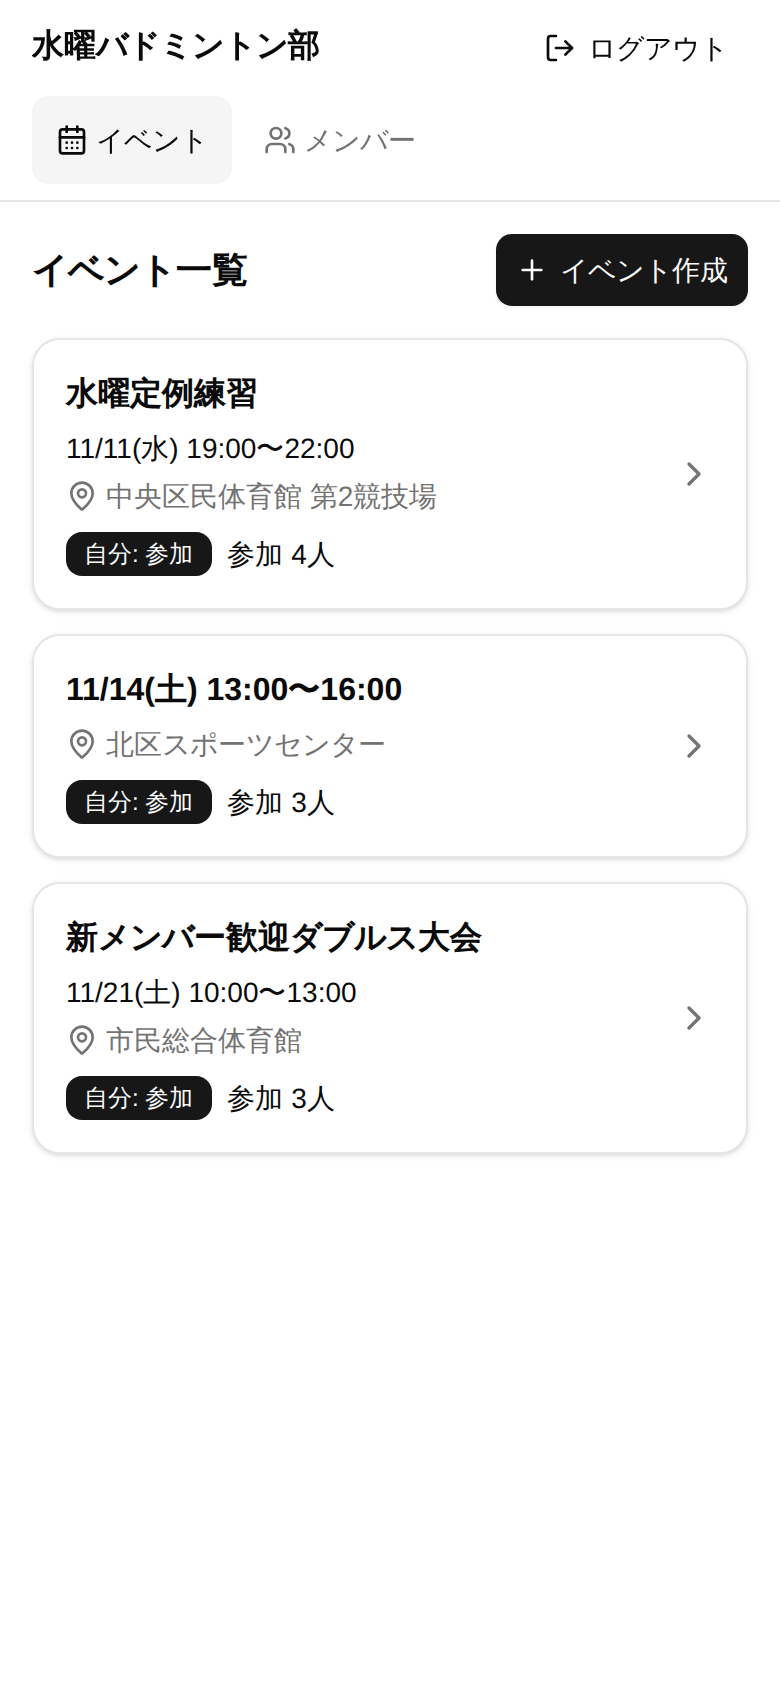
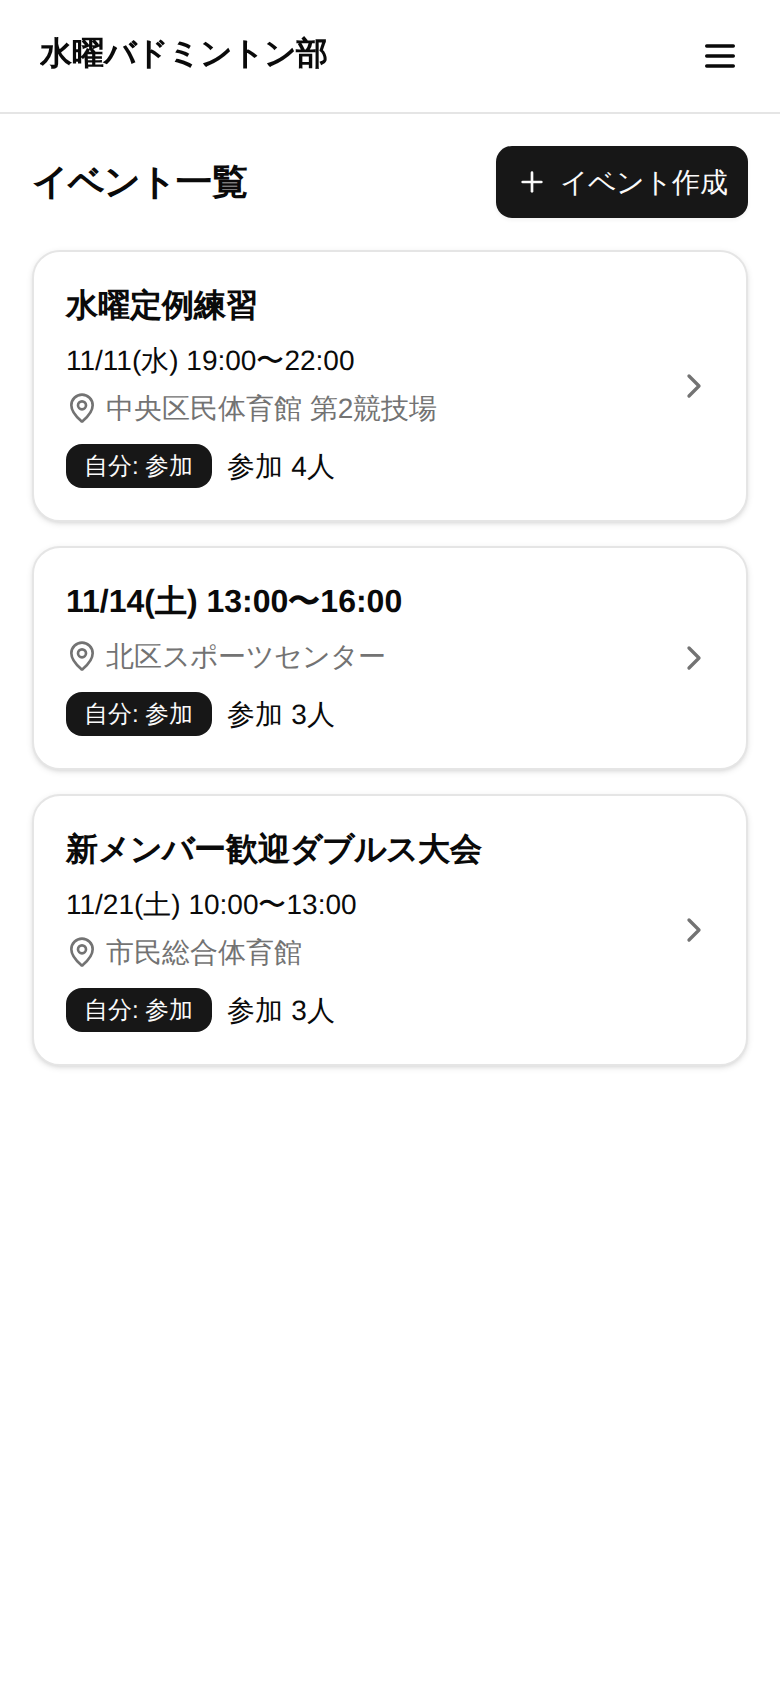
feat(web): ヘッダーのタブを廃止し、左端の ‹（親画面へ）と ≡ メニューにする（C39）
- ヘッダー: ‹（詳細・作成・メンバー一覧 → イベント一覧、編集 → イベント詳細。一覧には出さない）、Circle 名、≡
- メニュー: メンバー一覧（admin のみ）とログアウト。外側タップ・Escape・画面遷移で閉じる
- 各ページの「← イベント一覧」の行を削除
- テスト・E2E を更新、README のスクリーンショットを撮り直し

diff --git a/apps/web/src/components/layout/AppLayout.tsx b/apps/web/src/components/layout/AppLayout.tsx
@@ -1,43 +1,38 @@
-import { NavLink, Outlet } from 'react-router-dom';
-import { CalendarDays, Users } from 'lucide-react';
-import { LogoutButton } from '@/features/auth/LogoutButton';
+import { Link, Outlet, useLocation } from 'react-router-dom';
+import { ChevronLeft } from 'lucide-react';
 import { useMe } from '@/lib/auth';
-import { routes } from '@/lib/routes';
-import { cn } from '@/lib/utils';
+import { HeaderMenu } from './HeaderMenu';
+import { upTarget } from './upTarget';
 
 /**
- * ログイン後の画面の共通レイアウト（モバイルファースト: guardrails §12）。
+ * ログイン後の画面の共通レイアウト（モバイルファースト: guardrails §12、decisions C39）。
  * - 幅は max-w-md で中央寄せ。横スクロールしない
- * - ヘッダーに Circle 名、ナビ（イベント / メンバー[admin のみ]）、ログアウト
+ * - ヘッダー: 左端に「‹」（1 つ上の画面へ。イベント一覧には出さない）、Circle 名、右端にメニュー（≡）
+ * - 「‹」は履歴を戻るのではなく親画面へ移動する（外部リンクから直接開いてもアプリ内に留まる）
  */
 export function AppLayout() {
   const { data: me } = useMe();
-  const isAdmin = me?.member.role === 'admin';
-  const navClass = ({ isActive }: { isActive: boolean }) =>
-    cn(
-      'inline-flex h-11 items-center gap-1 rounded-md px-3 text-sm',
-      isActive ? 'bg-secondary font-medium' : 'text-muted-foreground',
-    );
+  const { pathname } = useLocation();
+  const up = upTarget(pathname);
 
   return (
     <div className="mx-auto flex min-h-dvh w-full max-w-md flex-col">
-      <header className="sticky top-0 z-10 border-b bg-background/95 px-4 pt-[env(safe-area-inset-top)] backdrop-blur">
-        <div className="flex h-12 items-center justify-between gap-2">
-          <span className="truncate font-semibold">{me?.circle.name}</span>
-          <LogoutButton />
-        </div>
-        <nav className="flex gap-1 pb-2">
-          <NavLink to={routes.events()} className={navClass}>
-            <CalendarDays className="size-4" />
-            イベント
-          </NavLink>
-          {isAdmin && (
-            <NavLink to={routes.members()} className={navClass}>
-              <Users className="size-4" />
-              メンバー
-            </NavLink>
+      <header className="sticky top-0 z-10 border-b bg-background/95 px-2 pt-[env(safe-area-inset-top)] backdrop-blur">
+        <div className="flex h-14 items-center gap-1">
+          {up ? (
+            <Link
+              to={up.to}
+              aria-label={up.label}
+              className="inline-flex size-11 shrink-0 items-center justify-center rounded-md hover:bg-accent"
+            >
+              <ChevronLeft className="size-6" />
+            </Link>
+          ) : (
+            <span className="w-2 shrink-0" />
           )}
-        </nav>
+          <span className="min-w-0 flex-1 truncate font-semibold">{me?.circle.name}</span>
+          <HeaderMenu isAdmin={me?.member.role === 'admin'} />
+        </div>
       </header>
       <main className="flex-1 px-4 py-4 pb-[calc(1rem+env(safe-area-inset-bottom))]">
         <Outlet />

diff --git a/apps/web/src/components/guards/guards.test.tsx b/apps/web/src/components/guards/guards.test.tsx
@@ -1,4 +1,4 @@
-import { screen } from '@testing-library/react';
+import { fireEvent, screen } from '@testing-library/react';
 import { describe, expect, it } from 'vitest';
 import { saveLastCircleLoginId } from '@/lib/lastCircle';
 import { makeMe, renderRoute } from '@/test/render';
@@ -29,15 +29,43 @@ describe('RequireAdmin', () => {
     expect(await screen.findByText('この画面を表示する権限がありません')).toBeInTheDocument();
   });
 
-  it('admin はメンバー一覧を表示でき、ナビにメンバーが出る', async () => {
+  it('admin はメンバー一覧を表示でき、メニューにメンバー一覧が出る（C39）', async () => {
     renderRoute('/members', { me: makeMe('admin') });
     expect(await screen.findByRole('heading', { name: 'メンバー一覧' })).toBeInTheDocument();
-    expect(screen.getByRole('link', { name: /メンバー/ })).toBeInTheDocument();
+    fireEvent.click(screen.getByRole('button', { name: 'メニュー' }));
+    expect(screen.getByRole('link', { name: 'メンバー一覧' })).toHaveAttribute('href', '/members');
   });
 
-  it('member のナビにはメンバーが出ない', async () => {
+  it('member のメニューにはメンバー一覧が出ず、ログアウトだけ（C39）', async () => {
     renderRoute('/events', { me: makeMe('member') });
     await screen.findByRole('heading', { name: 'イベント一覧' });
-    expect(screen.queryByRole('link', { name: /メンバー/ })).not.toBeInTheDocument();
+    fireEvent.click(screen.getByRole('button', { name: 'メニュー' }));
+    expect(screen.queryByRole('link', { name: 'メンバー一覧' })).not.toBeInTheDocument();
+    expect(screen.getByRole('button', { name: 'ログアウト' })).toBeInTheDocument();
+  });
+});
+
+describe('ヘッダー（decisions C39）', () => {
+  it('イベント一覧には「‹」を出さない', async () => {
+    renderRoute('/events', { me: makeMe('member') });
+    await screen.findByRole('heading', { name: 'イベント一覧' });
+    expect(screen.queryByRole('link', { name: 'イベント一覧' })).not.toBeInTheDocument();
+  });
+
+  it('メンバー一覧の「‹」はイベント一覧へ', async () => {
+    renderRoute('/members', { me: makeMe('admin') });
+    await screen.findByRole('heading', { name: 'メンバー一覧' });
+    expect(screen.getByRole('link', { name: 'イベント一覧' })).toHaveAttribute('href', '/events');
+  });
+
+  it('メニューは Escape で閉じる', async () => {
+    renderRoute('/events', { me: makeMe('member') });
+    await screen.findByRole('heading', { name: 'イベント一覧' });
+    const menu = screen.getByRole('button', { name: 'メニュー' });
+    fireEvent.click(menu);
+    expect(menu).toHaveAttribute('aria-expanded', 'true');
+    fireEvent.keyDown(document, { key: 'Escape' });
+    expect(menu).toHaveAttribute('aria-expanded', 'false');
+    expect(screen.queryByRole('button', { name: 'ログアウト' })).not.toBeInTheDocument();
   });
 });

diff --git a/apps/web/src/components/layout/HeaderMenu.tsx b/apps/web/src/components/layout/HeaderMenu.tsx
@@ -1,0 +1,72 @@
+import { useEffect, useId, useRef, useState } from 'react';
+import { Link, useLocation } from 'react-router-dom';
+import { Menu, Users } from 'lucide-react';
+import { Button } from '@/components/ui/button';
+import { LogoutButton } from '@/features/auth/LogoutButton';
+import { routes } from '@/lib/routes';
+
+/**
+ * ヘッダー右端のメニュー（≡）。中身は「メンバー一覧」（admin のみ）と「ログアウト」（decisions C39）。
+ * 外側のタップ・Escape・画面遷移で閉じる。
+ */
+export function HeaderMenu({ isAdmin }: { isAdmin: boolean }) {
+  const [open, setOpen] = useState(false);
+  const panelId = useId();
+  const rootRef = useRef<HTMLDivElement>(null);
+  const { pathname } = useLocation();
+
+  // 画面遷移したら閉じる
+  const [lastPath, setLastPath] = useState(pathname);
+  if (lastPath !== pathname) {
+    setLastPath(pathname);
+    setOpen(false);
+  }
+
+  useEffect(() => {
+    if (!open) return;
+    const onPointerDown = (e: PointerEvent) => {
+      if (!rootRef.current?.contains(e.target as Node)) setOpen(false);
+    };
+    const onKeyDown = (e: KeyboardEvent) => {
+      if (e.key === 'Escape') setOpen(false);
+    };
+    document.addEventListener('pointerdown', onPointerDown);
+    document.addEventListener('keydown', onKeyDown);
+    return () => {
+      document.removeEventListener('pointerdown', onPointerDown);
+      document.removeEventListener('keydown', onKeyDown);
+    };
+  }, [open]);
+
+  return (
+    <div ref={rootRef} className="relative shrink-0">
+      <Button
+        variant="ghost"
+        size="icon"
+        aria-label="メニュー"
+        aria-expanded={open}
+        aria-controls={panelId}
+        onClick={() => setOpen((v) => !v)}
+      >
+        <Menu className="size-5" />
+      </Button>
+      {open && (
+        <div
+          id={panelId}
+          className="absolute right-0 top-full z-20 mt-1 flex w-48 flex-col gap-1 rounded-lg border bg-popover p-1 shadow-md"
+        >
+          {isAdmin && (
+            <Link
+              to={routes.members()}
+              className="inline-flex h-11 items-center gap-2 rounded-md px-3 text-sm hover:bg-accent"
+            >
+              <Users className="size-4" />
+              メンバー一覧
+            </Link>
+          )}
+          <LogoutButton />
+        </div>
+      )}
+    </div>
+  );
+}

diff --git a/apps/web/src/features/auth/LogoutButton.tsx b/apps/web/src/features/auth/LogoutButton.tsx
@@ -1,5 +1,5 @@
 /**
- * ログアウトボタン（AppLayout のヘッダーに配置済み）。
+ * ログアウトボタン（AppLayout のヘッダーメニューに配置: decisions C39）。
  * POST /api/auth/logout 成功後に useSetLoggedOut() で me を null にし、RequireAuth が /login/<最後の circleLoginId> へ送る。
  */
 import { LogOut } from 'lucide-react';
@@ -9,16 +9,21 @@ import { useLogout } from './api';
 export function LogoutButton() {
   const logout = useLogout();
   return (
-    <div className="flex shrink-0 items-center gap-2">
-      {logout.isError && (
-        <span role="alert" className="text-xs text-destructive">
-          ログアウトに失敗しました
-        </span>
-      )}
-      <Button variant="ghost" size="sm" className="h-11" onClick={() => logout.mutate()} disabled={logout.isPending}>
+    <div className="flex flex-col">
+      <Button
+        variant="ghost"
+        className="w-full justify-start px-3 font-normal"
+        onClick={() => logout.mutate()}
+        disabled={logout.isPending}
+      >
         <LogOut className="size-4" />
         ログアウト
       </Button>
+      {logout.isError && (
+        <span role="alert" className="px-3 pb-2 text-xs text-destructive">
+          ログアウトに失敗しました
+        </span>
+      )}
     </div>
   );
 }

diff --git a/apps/web/src/features/auth/auth.test.tsx b/apps/web/src/features/auth/auth.test.tsx
@@ -94,7 +94,8 @@ describe('LogoutButton', () => {
     const fetchMock = stubFetch((url) => (url === '/api/auth/logout' ? new Response(null, { status: 204 }) : undefined));
     const { router, queryClient } = renderRoute('/events', { me: makeMe() });
 
-    fireEvent.click(await screen.findByRole('button', { name: 'ログアウト' }));
+    fireEvent.click(await screen.findByRole('button', { name: 'メニュー' }));
+    fireEvent.click(screen.getByRole('button', { name: 'ログアウト' }));
 
     await waitFor(() => expect(router.state.location.pathname).toBe('/login/test-circle'));
     expect(fetchMock.mock.calls.some(([u, init]) => String(u) === '/api/auth/logout' && init?.method === 'POST')).toBe(
@@ -110,7 +111,8 @@ describe('LogoutButton', () => {
         : undefined,
     );
     const { router } = renderRoute('/events', { me: makeMe() });
-    fireEvent.click(await screen.findByRole('button', { name: 'ログアウト' }));
+    fireEvent.click(await screen.findByRole('button', { name: 'メニュー' }));
+    fireEvent.click(screen.getByRole('button', { name: 'ログアウト' }));
     expect(await screen.findByText('ログアウトに失敗しました')).toBeInTheDocument();
     expect(router.state.location.pathname).toBe('/events');
   });

diff --git a/apps/web/src/components/layout/upTarget.ts b/apps/web/src/components/layout/upTarget.ts
@@ -1,0 +1,14 @@
+import { matchPath } from 'react-router-dom';
+import { routes } from '@/lib/routes';
+
+/** ヘッダーの「‹」の行き先（1 つ上の画面）と、その画面名（アクセシブルな名前）。イベント一覧（最上位）は null（decisions C39） */
+export function upTarget(pathname: string): { to: string; label: string } | null {
+  if (matchPath('/events/new', pathname)) return { to: routes.events(), label: 'イベント一覧' };
+  const edit = matchPath('/events/:eventId/edit', pathname);
+  if (edit) return { to: routes.eventDetail(edit.params.eventId ?? ''), label: 'イベント詳細' };
+  if (matchPath('/events/:eventId', pathname)) return { to: routes.events(), label: 'イベント一覧' };
+  if (matchPath('/members', pathname)) return { to: routes.events(), label: 'イベント一覧' };
+  if (matchPath('/events', pathname) || matchPath('/', pathname)) return null;
+  // 存在しないパス（NotFound）からも一覧へ戻れるようにする
+  return { to: routes.events(), label: 'イベント一覧' };
+}

diff --git a/apps/web/src/features/events/EventCreatePage.tsx b/apps/web/src/features/events/EventCreatePage.tsx
@@ -2,8 +2,7 @@
  * イベント作成（/events/new、admin のみ。ルーターの RequireAdmin と API の requireAdmin で二重に制限）。
  * 成功時はイベント詳細へ遷移する（AC-03）。
  */
-import { Link, useNavigate } from 'react-router-dom';
-import { ArrowLeft } from 'lucide-react';
+import { useNavigate } from 'react-router-dom';
 import { routes } from '@/lib/routes';
 import { useCreateEvent } from './api';
 import { EventForm } from './EventForm';
@@ -14,13 +13,6 @@ export function EventCreatePage() {
 
   return (
     <div className="flex flex-col gap-4">
-      <Link
-        to={routes.events()}
-        className="inline-flex h-11 w-fit items-center gap-1 text-sm text-muted-foreground"
-      >
-        <ArrowLeft className="size-4" />
-        イベント一覧
-      </Link>
       <h1 className="text-lg font-semibold">イベント作成</h1>
       <EventForm
         submitLabel="作成する"

diff --git a/apps/web/src/features/events/EventEditPage.tsx b/apps/web/src/features/events/EventEditPage.tsx
@@ -3,8 +3,8 @@
  * 保存後はイベント詳細へ、削除後はイベント一覧へ遷移する。
  */
 import { useState } from 'react';
-import { Link, useNavigate, useParams } from 'react-router-dom';
-import { ArrowLeft, Trash2 } from 'lucide-react';
+import { useNavigate, useParams } from 'react-router-dom';
+import { Trash2 } from 'lucide-react';
 import { Button } from '@/components/ui/button';
 import {
   Dialog,
@@ -31,13 +31,6 @@ export function EventEditPage() {
 
   return (
     <div className="flex flex-col gap-4">
-      <Link
-        to={routes.eventDetail(eventId)}
-        className="inline-flex h-11 w-fit items-center gap-1 text-sm text-muted-foreground"
-      >
-        <ArrowLeft className="size-4" />
-        イベント詳細
-      </Link>
       <h1 className="text-lg font-semibold">イベント編集</h1>
 
       {detail.isPending && <p className="text-sm text-muted-foreground">読み込み中…</p>}

diff --git a/apps/web/src/features/events/EventDetailPage.tsx b/apps/web/src/features/events/EventDetailPage.tsx
@@ -5,7 +5,7 @@
  * 別 Circle・存在しない Event は API が 404 を返し、「見つかりません」を表示する（AC-12）。
  */
 import { Link, useParams } from 'react-router-dom';
-import { ArrowLeft, CalendarDays, MapPin, Pencil } from 'lucide-react';
+import { CalendarDays, MapPin, Pencil } from 'lucide-react';
 import type { EventDetail } from '@minton/types';
 import { Badge } from '@/components/ui/badge';
 import { Button } from '@/components/ui/button';
@@ -24,13 +24,6 @@ export function EventDetailPage() {
 
   return (
     <div className="flex flex-col gap-4">
-      <Link
-        to={routes.events()}
-        className="inline-flex h-11 w-fit items-center gap-1 text-sm text-muted-foreground"
-      >
-        <ArrowLeft className="size-4" />
-        イベント一覧
-      </Link>
 
       {detail.isPending && <p className="text-sm text-muted-foreground">読み込み中…</p>}
       {detail.isError &&

diff --git a/apps/web/src/components/layout/upTarget.test.ts b/apps/web/src/components/layout/upTarget.test.ts
@@ -1,0 +1,16 @@
+import { describe, expect, it } from 'vitest';
+import { upTarget } from './upTarget';
+
+describe('upTarget（ヘッダーの「‹」の行き先: decisions C39）', () => {
+  it.each([
+    ['/events', null],
+    ['/', null],
+    ['/events/new', { to: '/events', label: 'イベント一覧' }],
+    ['/events/e1', { to: '/events', label: 'イベント一覧' }],
+    ['/events/e1/edit', { to: '/events/e1', label: 'イベント詳細' }],
+    ['/members', { to: '/events', label: 'イベント一覧' }],
+    ['/unknown', { to: '/events', label: 'イベント一覧' }],
+  ])('%s', (path, expected) => {
+    expect(upTarget(path)).toEqual(expected);
+  });
+});

diff --git a/e2e/invitations.spec.ts b/e2e/invitations.spec.ts
@@ -29,7 +29,8 @@ test('admin が招待し、招待 URL から初回登録するとイベント一
 
   // admin: メンバー一覧から招待する
   await loginViaUi(page, circle.admin);
-  await page.getByRole('link', { name: /メンバー/ }).click();
+  await page.getByRole('button', { name: 'メニュー' }).click();
+  await page.getByRole('link', { name: 'メンバー一覧' }).click();
   await expect(page).toHaveURL(/\/members$/);
   await expect(page.getByRole('heading', { name: 'メンバー一覧' })).toBeVisible();
   await expectNoHorizontalScroll(page, 'メンバー一覧');
